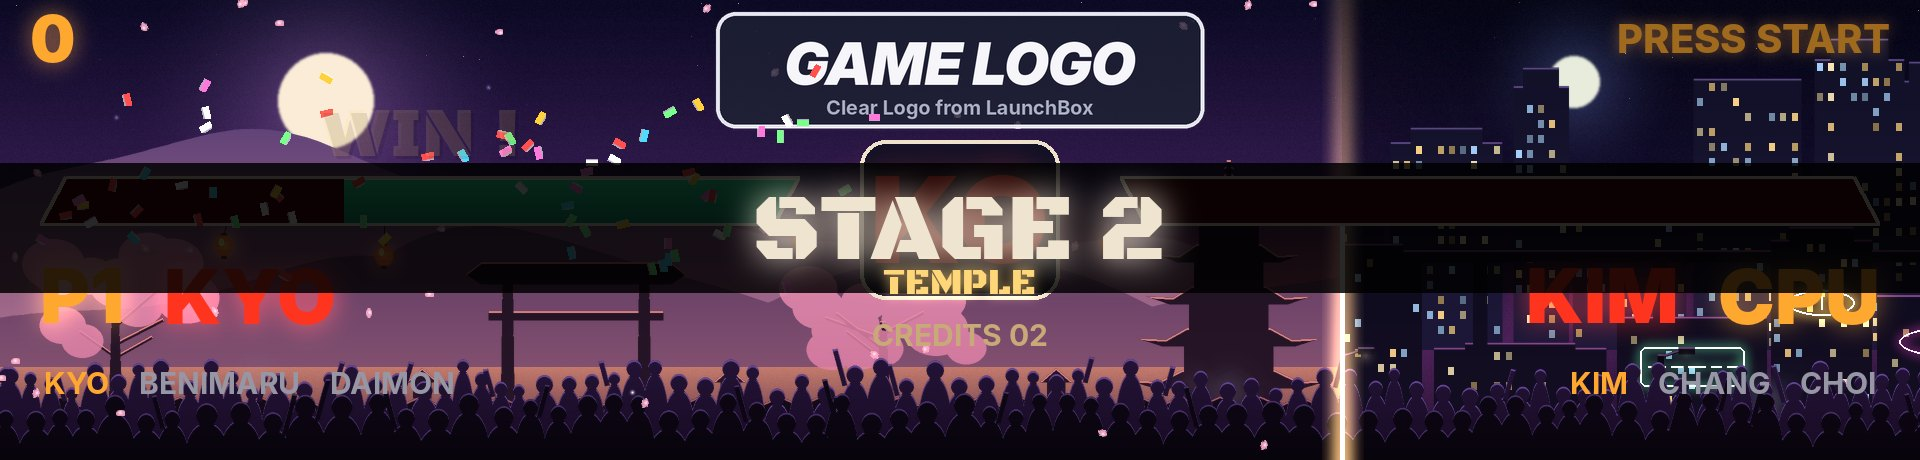
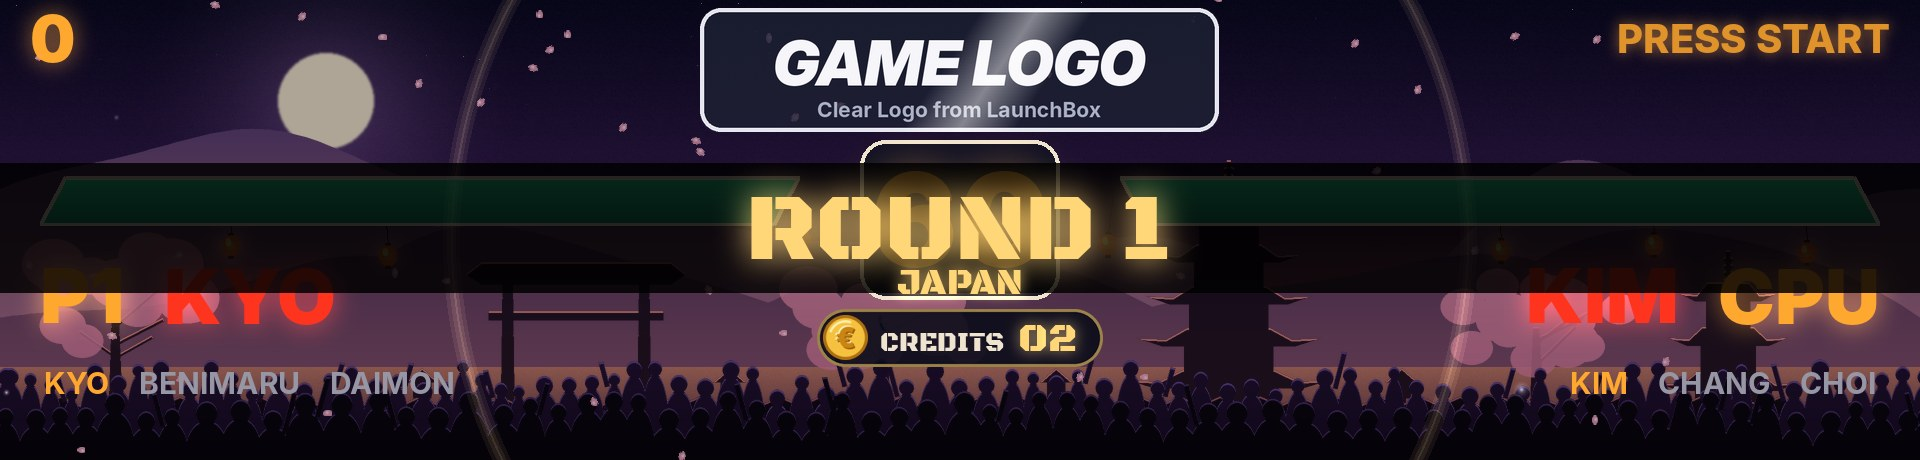
Docs: The King of Fighters '98, DoDonPachi and Metal Slug pictures for 1.31
Seb asked for the README pictures of King of Fighters '98, DoDonPachi and
Metal Slug to be updated. All four are rendered by the program through the
HD display (tools/readme_131.py), with the GAME LOGO badge in place of the
game's logo as before.

- The King of Fighters '98 at the top: K.O. in red on the loser's side and
  WIN in gold on the winner's, with its confetti (Iori's team).
- DoDonPachi at the top and at the head of the Cave games: both players
  with their information in big, KAKOU, the boss of stage 3, and its life
  read in the game, the laser on it.
- Metal Slug at the top: player 1 in the tank, player 2's grenade blowing up
  as it lands again, the screen shaking.
- The stage change of the fighting games shows a new match of King of
  Fighters '98 (its temple, ROUND 1 and JAPAN under it). It showed STAGE 2
  at a K.O., the very thing 1.31 corrected.

Claude-Session: https://claude.ai/code/session_01UHMmGB2iQAKSvNdTFigVJ4

diff --git a/README.fr.md b/README.fr.md
@@ -4,9 +4,10 @@ English version: [README.md](README.md)
 
 Score, vies, crédits et événements des jeux MAME et RetroArch en direct sur le marquee d'une borne d'arcade, avec une scène animée propre à chaque jeu. Sur une dalle LED 128x32 (**Pixelcade LED**, **ZeDMD**), ou en HD lisse sur un écran LCD de marquee (le marquee 1920 x 460 d'une Vewlix par exemple).
 
-![The King of Fighters '98 sur un marquee LCD, affichage HD](docs/images/hd_fight.jpg)
+![The King of Fighters '98 sur un marquee LCD, affichage HD, K.O. du côté du perdant et WIN du côté du gagnant](docs/images/hd_fight.jpg)
+![DoDonPachi sur un marquee LCD, affichage HD, les informations en grand et un combat de boss avec sa vie lue dans le jeu](docs/images/hd_dodonpachi.jpg)
 ![Twinkle Star Sprites sur un marquee LCD, affichage HD, un PERFECT et une bombe](docs/images/hd_twinkle_star_sprites.jpg)
-![Metal Slug sur un marquee LCD, affichage HD, le char et le lance-flammes](docs/images/hd_metal_slug.jpg)
+![Metal Slug sur un marquee LCD, affichage HD, le char et une grenade qui explose](docs/images/hd_metal_slug.jpg)
 ![Écran des pièces d'un jeu de combat sur un marquee LCD, affichage HD](docs/images/hd_coin_screen.jpg)
 ![Logo du jeu, écran des pièces et combat sur une dalle LED 128x32](docs/images/led_fight.gif)
 ![Metal Slug sur une dalle LED 128x32](docs/images/led_metal_slug.gif)
@@ -254,7 +255,7 @@ C'est le Clear Logo LaunchBox du jeu, trouvé comme expliqué juste au-dessus. S
 
 Avec l'affichage HD lisse, les Metal Slug et les jeux de combat ont une scène complète à eux. Tout est dessiné par le programme, aucune image ne vient des jeux.
 
-![Changement de stage dans un jeu de combat](docs/images/hd_fight_stage.jpg)
+![Un nouveau match dans The King of Fighters '98, son décor et ROUND 1 avec le lieu du match](docs/images/hd_fight_stage.jpg)
 
 - **Metal Slug.** Un panneau de soldat par joueur, avec le score, l'arme et sa jauge de munitions, les bombes, les vies et les prisonniers libérés (premier Metal Slug, X, 3 et 5). Les tirs suivent l'arme (traçantes et douilles, décharges du fusil à pompe, roquettes, lance-flammes), les bombes volent, rebondissent une fois et explosent dans le décor en retombant, comme celles du jeu, en faisant trembler tout l'écran (dans le premier Metal Slug, au moment même où la grenade du jeu explose, lue dans le jeu), une caisse tombe quand on ramasse une arme, le casque tombe quand on perd une vie et DERNIÈRE VIE clignote sur la dernière. Dans le char du premier Metal Slug, le char prend la place de l'arme, avec son énergie en coups (trois, comme dans le jeu) et ses obus. Un coup reçu fait clignoter la case perdue, un obus part vers le décor, ÉJECTE-TOI ! clignote quand il n'a plus d'énergie et le char détruit explose. Pour afficher ton propre dessin du char à la place de celui d'ArcadeDMD, dépose-le dans `sprites\mslug_tank_hd.png` (vu de profil, canon vers la droite). Un fond uni autour du dessin devient transparent, les marges vides sont coupées et il se place au milieu de la carte. Le joueur 2 peut arriver à tout moment. En bas de la colonne, les crédits sont dans une pastille sombre à côté d'une pièce frappée du symbole de `config.json`, et une pièce mise tombe dessus. Chaque mission a son décor (jungle, désert, montagne enneigée, ville en guerre, port, base ennemie), avec MISSION COMPLETE et un feu d'artifice entre les deux. Quand personne ne joue, les décors passent à tour de rôle.
 - **Jeux de combat.** Étincelles à chaque coup, compteur de combo, PREMIER COUP, super coups (l'écran s'assombrit), battement de cœur rouge quand la vie est basse, K.O. qui explose avec K.O. en grosses lettres rouges du côté du perdant et WIN doré du côté du gagnant, DOUBLE K.O., TIME UP quand le chrono a décompté jusqu'à 0, PERFECT, confettis pour le vainqueur, combattant suivant des King of Fighters une fois le K.O. passé, ROUND 2, ROUND 3... dans les King of Fighters '96 à 2000, et FIGHT ! au début de chaque round. Quand une équipe de King of Fighters perd son troisième combattant, le vainqueur en grand (VICTOIRE P1) et l'équipe éliminée dessous. À l'écran de sélection (les deux barres vides sans K.O.) et quand le chrono n'a pas bougé depuis 6 secondes, VS prend la place du chrono du combat d'avant, sur la dalle aussi. Le public en bas réagit à l'action.
@@ -842,6 +843,8 @@ Comme les jeux Neo Geo, les autres jeux Capcom ont reçu une scène de dalle et 
 ### Les jeux Cave
 
 Tous les jeux Cave de FinalBurn Neo sont reconnus, avec MAME comme avec RetroArch. Cela fait 37 jeux et leurs 158 sets. Les jeux de la carte Cave à 68000 (DonPachi, DoDonPachi, ESP Ra.De., Dangun Feveron, Guwange, Puzzle Uo Poko), les jeux que Cave a faits pour le PGM d'IGS (DoDonPachi Dai-Ou-Jou, Ketsui, Espgaluda, et DoDonPachi II qu'IGS a fait sous licence Cave), les jeux de la carte CV1000 de Cave avec son SH-3 (Mushihime-sama, Espgaluda II, Ibara, Pink Sweets, Muchi Muchi Pork!, Deathsmiles, DoDonPachi Dai-Fukkatsu, SaiDaiOuJou, Akai Katana...), et les jeux que d'autres ont faits sur la carte Cave (Power Instinct 2, Sailor Moon, Air Gallet, Hotdog Storm, Mazinger Z...). Une version, un bootleg ou un hack prend le fichier de son jeu d'origine. Progear, fait par Cave pour le CPS2 de Capcom, est avec les jeux Capcom. Les fichiers sont faits par `tools/cave_games.py` d'après la liste et la base de triche de FinalBurn Neo, complétée par celle de MAME (la collection de mamecheat.co.uk), qui en sait plus pour beaucoup de jeux.
+
+![DoDonPachi sur un marquee LCD, affichage HD, KAKOU, le boss du niveau 3, et sa vie](docs/images/hd_dodonpachi.jpg)
 
 - **Ce qui est lu.** Les crédits, les vies, les bombes et dans DoDonPachi et Dai-Ou-Jou leurs places (trois au départ, une de plus par vaisseau perdu, six au plus), le niveau du tir, la jauge de combo qui se vide, le vaisseau choisi (TYPE-A, TYPE-B, TYPE-C), le niveau ou le round, le héros de Guwange et son énergie, le multiplicateur d'ESP Ra.De., les pierres d'esprit d'Espgaluda, l'énergie de Deathsmiles, la boucle de DonPachi et DoDonPachi (bases de triche de FinalBurn Neo et de MAME). Les jeux de combat lisent la vie de chaque joueur et le chrono, les beat'em up la vie et les vies.
 - **Ce qu'il faut apprendre.** Le score et le compteur de coups ne sont pas dans les bases de triche. Apprends-les avec `learn.bat` (Apprendre le score, plus bas), `score=` et `score2=`, `hits=` pour le nombre du compteur HIT, `stage=` pour le niveau. Ceux de DoDonPachi sont déjà appris sur une borne, le score de chaque joueur avec le nombre de continues en dernier chiffre comme le jeu l'affiche, le compteur de coups de chaque joueur, les crédits. Les jeux du CV1000 lisent leurs crédits, leurs vies et leurs bombes dans les codes de MAME, leur score reste à apprendre. RetroAchievements donne le score de DonPachi, ESP Ra.De., Dangun Feveron (la somme de ses niveaux), Puzzle Uo Poko, Gaia Crusaders, Power Instinct 2, Gogetsuji Legends, Sailor Moon, Ketsui, Akai Katana, Deathsmiles et son MegaBlack Label, et Puzzle! Mushihime-Tama, à vérifier en jeu.

diff --git a/README.md b/README.md
@@ -4,9 +4,10 @@ Version française : [README.fr.md](README.fr.md)
 
 Live score, lives, credits and game events from MAME and RetroArch games, shown on the marquee of an arcade cabinet, with an animated scene for each game. On a 128x32 LED panel (**Pixelcade LED**, **ZeDMD**), or in smooth HD on an LCD marquee screen (a 1920 x 460 Vewlix marquee, for example).
 
-![The King of Fighters '98 on an LCD marquee, HD display](docs/images/hd_fight.jpg)
+![The King of Fighters '98 on an LCD marquee, HD display, K.O. on the loser's side and WIN on the winner's](docs/images/hd_fight.jpg)
+![DoDonPachi on an LCD marquee, HD display, the information in big and a boss fight with its life read in the game](docs/images/hd_dodonpachi.jpg)
 ![Twinkle Star Sprites on an LCD marquee, HD display, PERFECT and a bomb](docs/images/hd_twinkle_star_sprites.jpg)
-![Metal Slug on an LCD marquee, HD display, the tank and the flamethrower](docs/images/hd_metal_slug.jpg)
+![Metal Slug on an LCD marquee, HD display, the tank and a grenade that blows up](docs/images/hd_metal_slug.jpg)
 ![Coin screen of a fighting game on an LCD marquee, HD display](docs/images/hd_coin_screen.jpg)
 ![Game logo, coin screen and fight on a 128x32 LED panel](docs/images/led_fight.gif)
 ![Metal Slug on a 128x32 LED panel](docs/images/led_metal_slug.gif)
@@ -254,7 +255,7 @@ It is the game's LaunchBox Clear Logo, found as described just above. On a panel
 
 With the smooth HD display, the Metal Slug games and the fighting games get a full scene of their own. Everything is drawn by the program, no image comes from the games.
 
-![Stage change in a fighting game](docs/images/hd_fight_stage.jpg)
+![A new match in The King of Fighters '98, its stage and ROUND 1 with the place of the match](docs/images/hd_fight_stage.jpg)
 
 - **Metal Slug.** One soldier panel per player, with the score, the weapon and its ammo gauge, the bombs, the lives and the rescued prisoners (first Metal Slug, X, 3 and 5). Shots follow the weapon (tracers and shell casings, shotgun blasts, rockets, flamethrower), bombs fly, bounce once and explode in the backdrop as they land again, as the game's do, shaking the whole screen (in the first Metal Slug, at the very moment the game's own grenade blows up, read in the game), a crate drops when a weapon is picked up, the helmet falls when a life is lost and LAST LIFE blinks on the last one. In the tank of the first Metal Slug, the tank takes the place of the weapon, with its energy in hits (three, like in the game) and its cannon shells. A hit makes the lost case blink, a shell flies to the backdrop, BAIL OUT! blinks when it has no energy left and a destroyed tank blows up. To show your own drawing of the tank instead of ArcadeDMD's, put it in `sprites\mslug_tank_hd.png` (seen from the side, gun to the right). A plain background around the drawing is made transparent, empty margins are cut and it sits in the middle of the card. Player 2 can join at any time. At the bottom of the column, the credits sit in a dark pill beside a coin struck with the currency symbol of `config.json`, and a coin put in falls onto it. Each mission has its own backdrop (jungle, desert, snowy mountain, city at war, harbor, enemy base), with MISSION COMPLETE and fireworks in between. With nobody playing, the backdrops take turns.
 - **Fighting games.** Sparks on every hit, combo counter, FIRST ATTACK, super moves (the screen darkens), a red heartbeat when health is low, an exploding K.O. with K.O. in big red letters on the loser's side and WIN in gold on the winner's, DOUBLE K.O., TIME UP when the timer has counted down to 0, PERFECT, confetti for the winner, the next King of Fighters fighter once the K.O. is over, ROUND 2, ROUND 3... in the King of Fighters '96 to 2000, and FIGHT ! at the start of each round. When a King of Fighters team loses its third fighter, the winner in big letters (P1 WINS) and the team eliminated under it. On the select screen (both bars empty without a K.O.) and when the timer has not moved for 6 seconds, VS takes the place of the last fight's timer, on the panel too. The crowd at the bottom reacts to the action.
@@ -842,6 +843,8 @@ Like the Neo Geo games, the other Capcom games got a panel scene and an animated
 ### Cave games
 
 Every Cave game of FinalBurn Neo is recognized, with MAME as with RetroArch. That makes 37 games and their 158 sets. The games of the Cave board with its 68000 (DonPachi, DoDonPachi, ESP Ra.De., Dangun Feveron, Guwange, Puzzle Uo Poko), the games Cave made for the IGS PGM (DoDonPachi Dai-Ou-Jou, Ketsui, Espgaluda, and DoDonPachi II that IGS made under Cave's licence), the games of Cave's own CV1000 board with its SH-3 (Mushihime-sama, Espgaluda II, Ibara, Pink Sweets, Muchi Muchi Pork!, Deathsmiles, DoDonPachi Dai-Fukkatsu, SaiDaiOuJou, Akai Katana...), and the games other companies made on the Cave board (Power Instinct 2, Sailor Moon, Air Gallet, Hotdog Storm, Mazinger Z...). A version, a bootleg or a hack takes the file of its original game. Progear, made by Cave for Capcom's CPS2, is with the Capcom games. The files are made by `tools/cave_games.py` from the list and the cheat database of FinalBurn Neo, completed by MAME's (the cheat collection of mamecheat.co.uk), which knows more for many games.
+
+![DoDonPachi on an LCD marquee, HD display, KAKOU, the boss of stage 3, and its life](docs/images/hd_dodonpachi.jpg)
 
 - **What is read.** The credits, the lives, the bombs and in DoDonPachi and Dai-Ou-Jou their slots (three at the start, one more for each ship lost, six at most), the shot level, the combo gauge that drains, the ship chosen (TYPE-A, TYPE-B, TYPE-C), the stage or the round, the hero of Guwange and his energy, the multiplier of ESP Ra.De., the spirit stones of Espgaluda, the energy of Deathsmiles, the loop of DonPachi and DoDonPachi (cheat databases of FinalBurn Neo and MAME). The fighting games read the health of each player and the timer, the beat'em ups the health and the lives.
 - **What to learn.** The score and the hit counter are not in the cheat databases. Learn them with `learn.bat` (Learning the score, below), `score=` and `score2=`, `hits=` for the number of the HIT counter, `stage=` for the stage. DoDonPachi's are already learned on a cabinet, the score of each player with the continues used as its last digit as the game shows it, the hit counter of each player, the credits. The CV1000 games read their credits, lives and bombs from MAME's cheats, their score is still to learn. RetroAchievements gives the score of DonPachi, ESP Ra.De., Dangun Feveron (the sum of its stages), Puzzle Uo Poko, Gaia Crusaders, Power Instinct 2, Gogetsuji Legends, Sailor Moon, Ketsui, Akai Katana, Deathsmiles and its MegaBlack Label, and Puzzle! Mushihime-Tama, to be checked in game.
